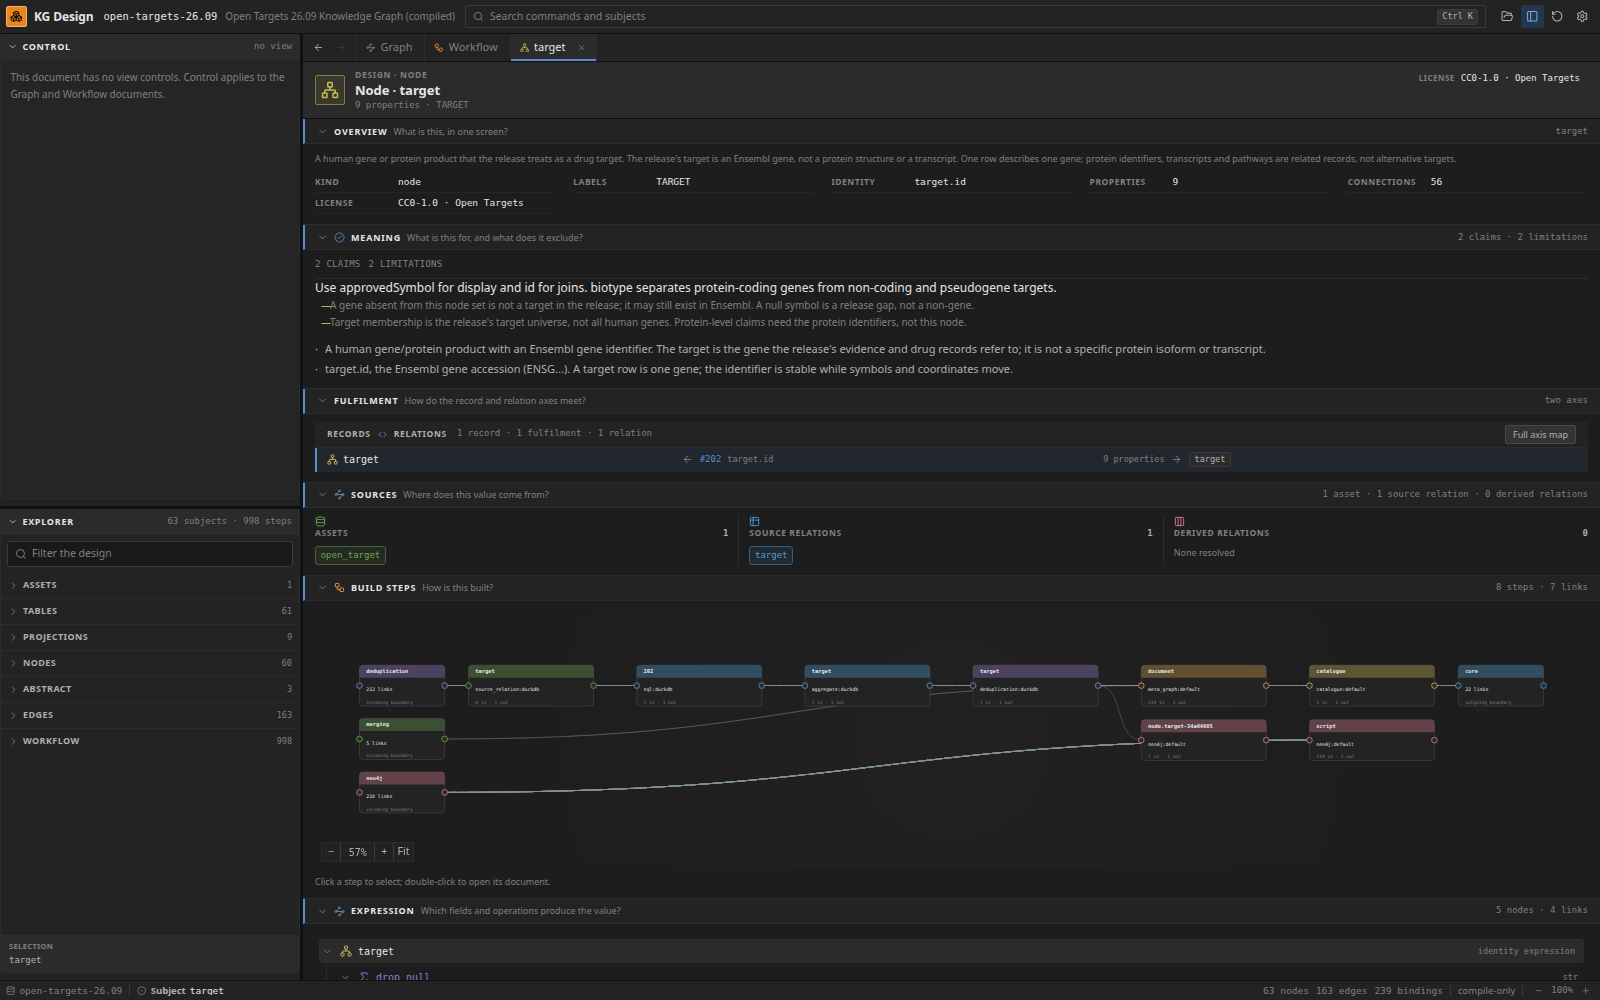
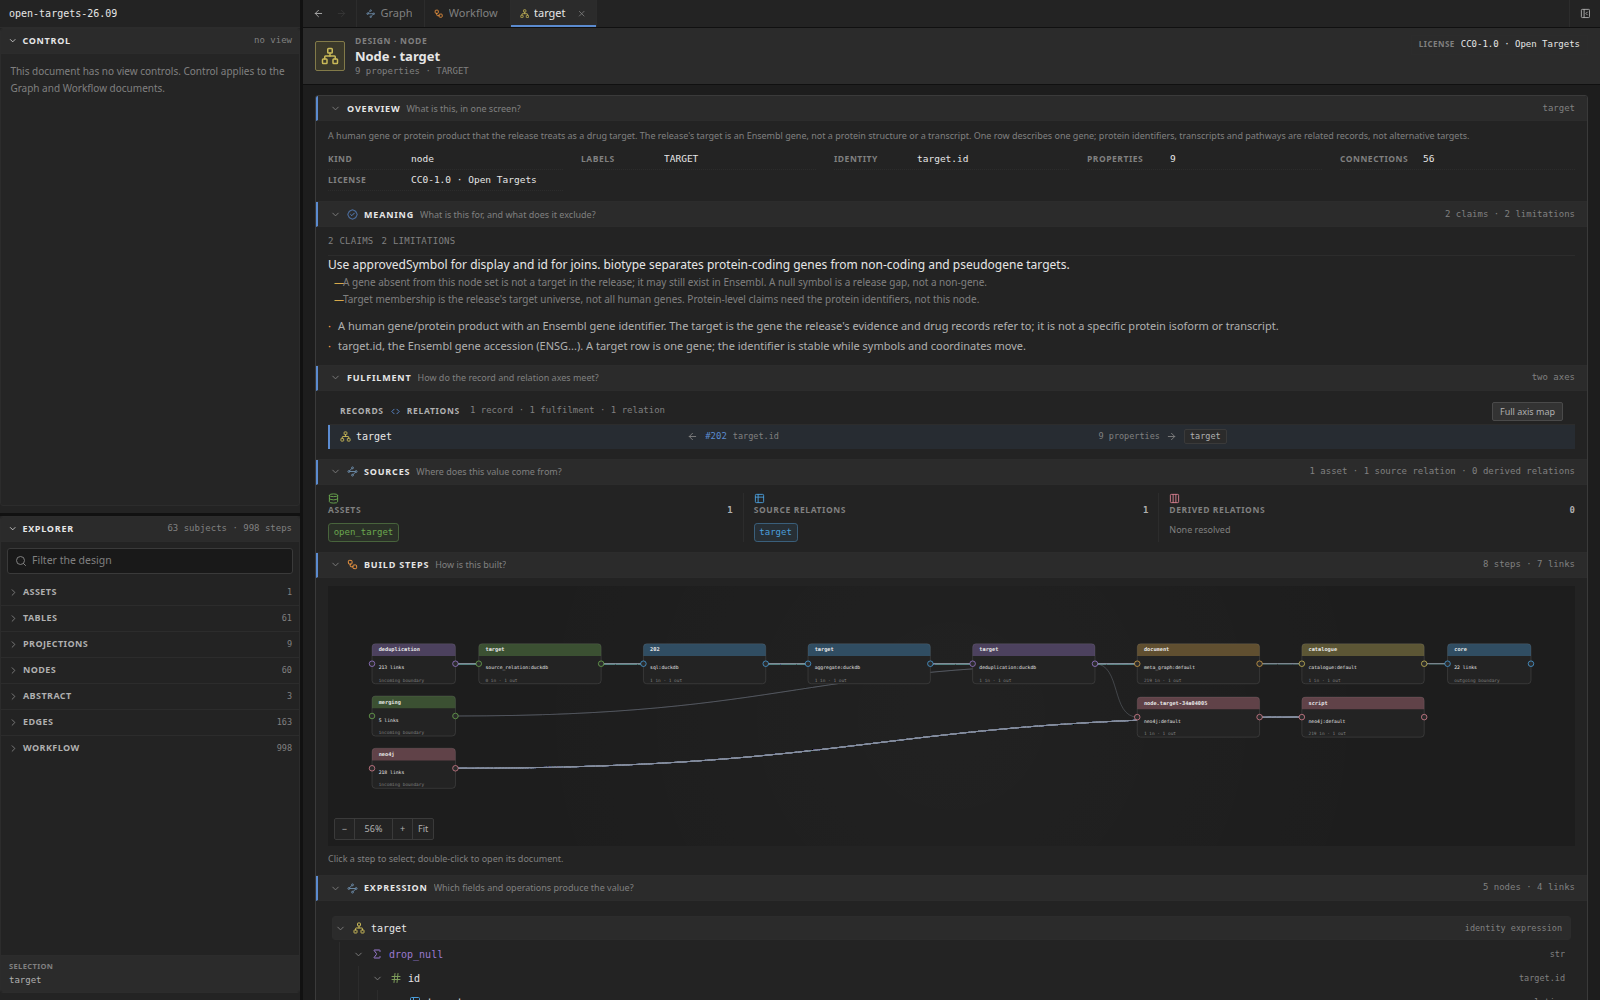
Share one card frame across every detail section

diff --git a/viewer/detail/detail.module.css b/viewer/detail/detail.module.css
@@ -153,7 +153,17 @@
   flex: 1;
   flex-direction: column;
   gap: 0;
-  padding: 0 0 26px;
+  padding: 10px 12px 26px;
+}
+
+/* One frame holds every section; sections divide inside it, they do not each
+   become a separate card. */
+.bodyCard {
+  min-width: 0;
+  overflow: hidden;
+  border: 1px solid var(--color-line);
+  border-radius: 3px;
+  background-color: var(--color-panel);
 }
 
 .levelBody {
@@ -1883,6 +1893,11 @@ button.expressionToggle:hover {
   border-bottom: 1px solid var(--color-line-soft);
 }
 
+.bodyCard > .band:last-child,
+.bodyCard > .levelBody:last-child > .band:last-child {
+  border-bottom: 0;
+}
+
 .bandHead {
   display: flex;
   width: 100%;
@@ -1893,7 +1908,7 @@ button.expressionToggle:hover {
   border: 0;
   border-bottom: 1px solid var(--color-line-soft);
   border-left: 2px solid transparent;
-  background-color: var(--color-panel);
+  background-color: var(--color-panel-raised);
   color: var(--color-text);
   text-align: left;
 }

diff --git a/viewer/detail/view/DetailChrome.tsx b/viewer/detail/view/DetailChrome.tsx
@@ -72,7 +72,9 @@ export function DetailDocument({
           </div>
         ) : null}
       </header>
-      <div className={styles.body}>{children}</div>
+      <div className={styles.body}>
+        <div className={styles.bodyCard}>{children}</div>
+      </div>
     </div>
   );
 }
@@ -95,8 +97,8 @@ export interface DetailBandProps {
  * One section of a detail document.
  *
  * The header is structural and shared by every kind: a micro title, the
- * question the section answers, and one count. The body holds content only; a
- * section never wraps itself in a floating card.
+ * question the section answers, and one count. All sections share one card
+ * frame and divide inside it; the body holds content only.
  */
 export function DetailBand({
   title,

diff --git a/viewer/DETAIL_CONTENT.md b/viewer/DETAIL_CONTENT.md
@@ -91,11 +91,13 @@ purpose, a grain or an identity.
 
 ## Layout
 
-- A document is a stack of full-width bands separated by 1px rules. No band is
-  a floating card and no band has a drop shadow.
-- The header is sticky; the bands scroll.
-- The band body is 8px above and 10px below its content; a flush body is used
-  for a canvas or a table that owns its own padding.
+- A document renders one card frame inset 12px from the document edge. Every
+  section lives inside that frame; the sections divide with 1px rules rather
+  than each becoming a separate card. The frame has a 1px outline, a 3px
+  radius and no drop shadow.
+- The header is sticky; the frame scrolls.
+- The section body is 8px above and 10px below its content; a flush body is
+  used for a canvas or a table that owns its own padding.
 - A table shares one `grid-template-columns` between its head and every row.
 - At narrow width the Sources groups stack and the full axis map becomes one
   column; nothing overflows horizontally.

diff --git a/viewer/DESIGN_BLENDER.md b/viewer/DESIGN_BLENDER.md
@@ -18,6 +18,10 @@ Reference: Blender 4.x dark theme, not a generic dashboard.
   view's controls, **Explorer** for the whole design.
 - **Area headers** are 25px bands on `panel-raised` with an icon, an uppercase
   micro title, optional counts and right-aligned controls.
+- **Detail sections share one card.** A detail document is one inset `panel`
+  card frame with a 1px outline and 3px radius; sections divide inside it with
+  1px rules and `panel-raised` headers. The frame has no drop shadow. The
+  workbench regions remain flat plates; only the document body is a card.
 - **Editor tabs** belong to the main area, not the window. They name the
   document, not a global destination.
 - **Side bar** is the function's subject browser and detail controls.
